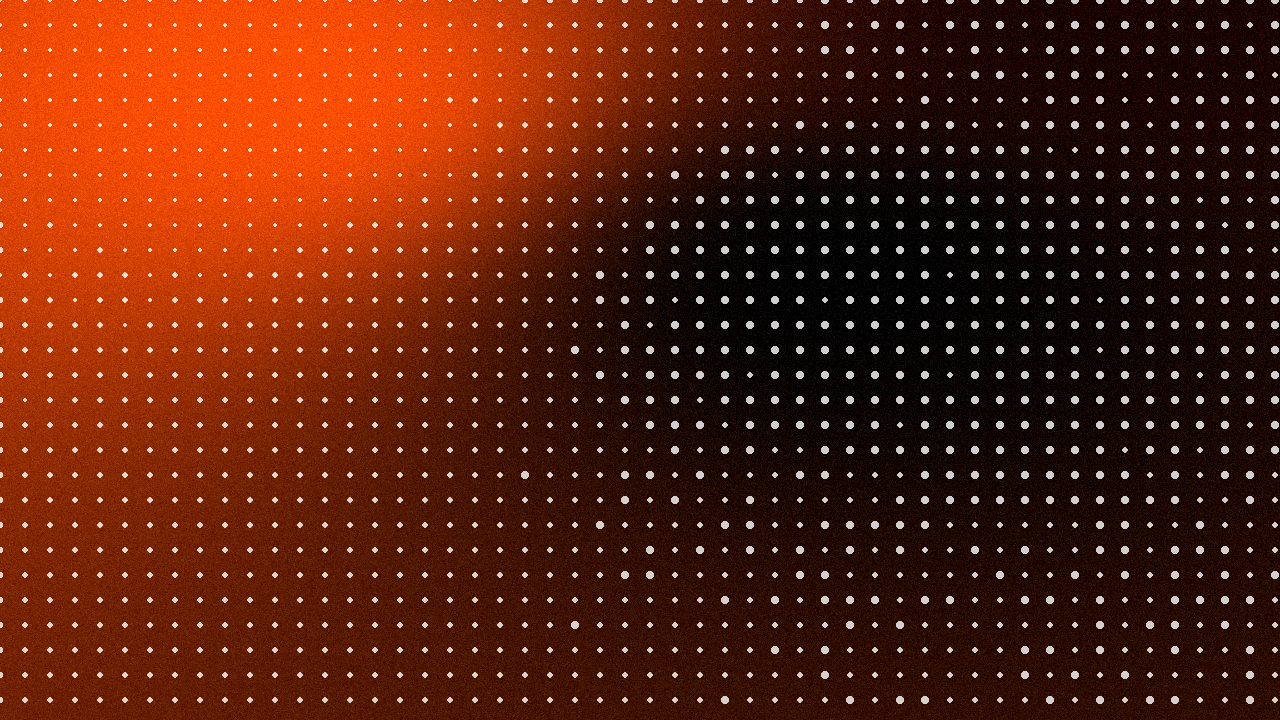
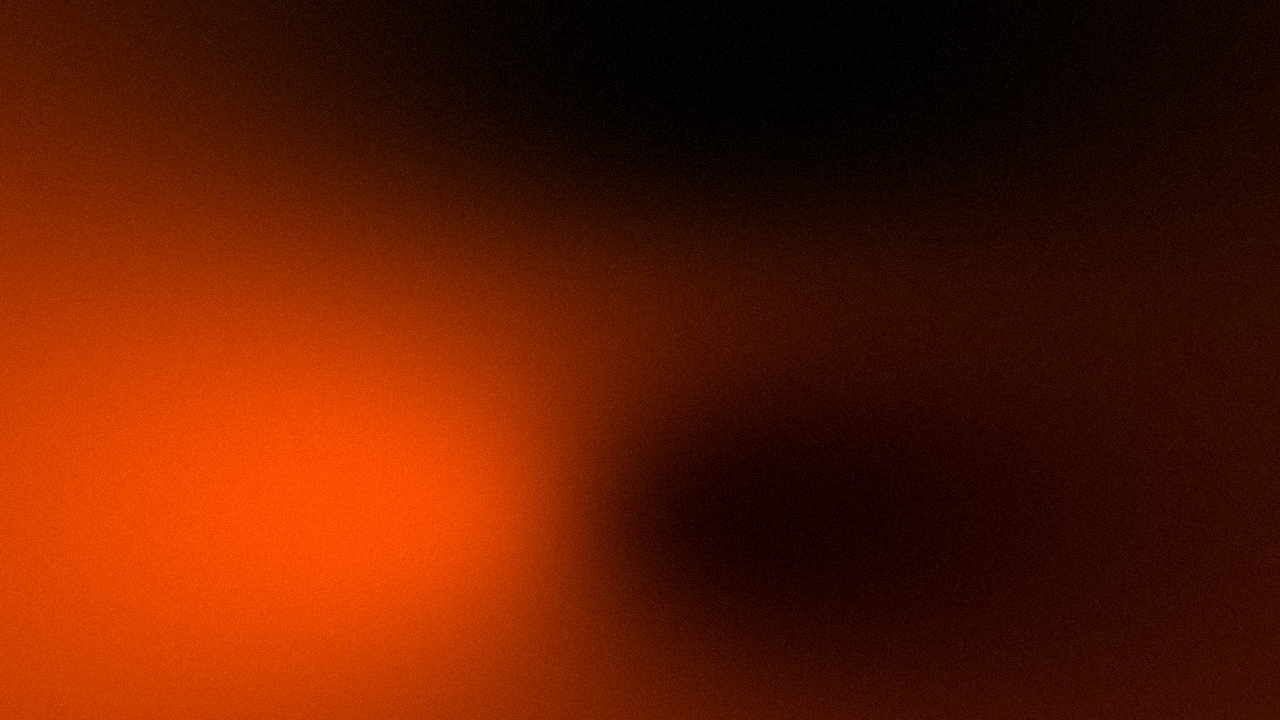
docs: regenerate samples to showcase smooth gradients without dots

diff --git a/README.md b/README.md
@@ -39,15 +39,15 @@ python main.py --colors #FF5000 --dots-mode alpha --dots-spacing 15
 
 #### 3. High-Contrast Red (Phone 2a Style)
 ```bash
-python main.py --theme red --noise 0.05 --dots 1.0
+python main.py --theme red --noise 0.05 --dots 0.0
 ```
-*Effect: Adds heavy film grain (noise) to prevent banding in deep reds and emphasize the "retro" display look.*
+*Effect: Smooth, deep reds with heavy film grain (noise) to prevent banding and emphasize the "retro" display look.*
 
 ![Red Theme Sample](samples/red.png)
 
 #### 4. The "Glass" Series (Frosted)
 ```bash
-python main.py --theme glass --noise 0.01 --res 2560 1440
+python main.py --theme glass --noise 0.01 --dots 0.0 --res 2560 1440
 ```
 *Effect: Smooth, blurred translucent gradients with minimal noise, perfect for a clean desktop setup.*
 
